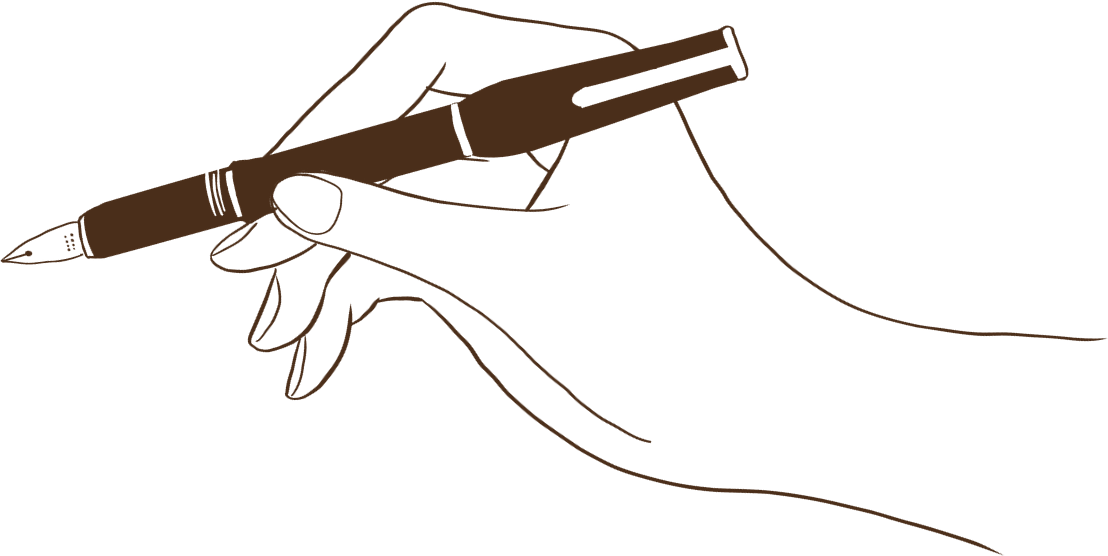
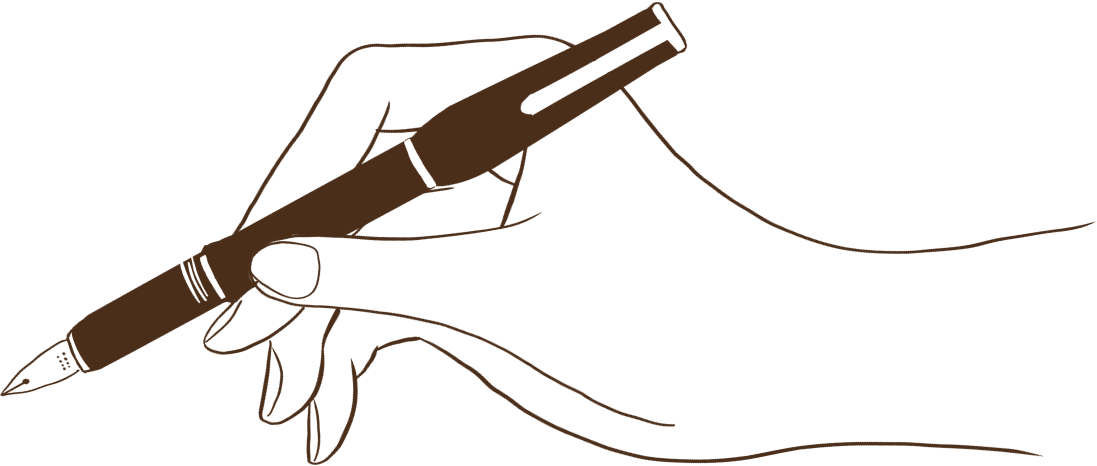
書いている手のペンをより下向きに傾け、手の位置を上げる
回転を50度から63度に変更し、画像内のペン先位置(下端寄り)に合わせて配置を調整。

diff --git a/多機能メモ.py b/多機能メモ.py
@@ -2163,9 +2163,9 @@ class MultiApp(QMainWindow):
                 tl = title.mapTo(paper, QPoint(0, 0))
                 hand_h = max(36, round(title_pix.height() * 0.95))
                 hand = hand_src.scaledToHeight(hand_h, Qt.SmoothTransformation)
-                tip_y = tl.y() + title_pix.height() * 0.45   # 文字の中ほどよりやや上にペン先
+                tip_y = tl.y() + title_pix.height() * 0.62   # 文字の中ほどよりやや下にペン先(手そのものは上に来る)
                 hx = tl.x() + title_pix.width() + 4
-                hy = round(tip_y - hand_h * 0.46)
+                hy = round(tip_y - hand_h * 0.83)            # 画像内のペン先は下端近く(約83%の高さ)
                 canvas = QPixmap(paper.size())
                 canvas.fill(Qt.transparent)
                 p = QPainter(canvas)
